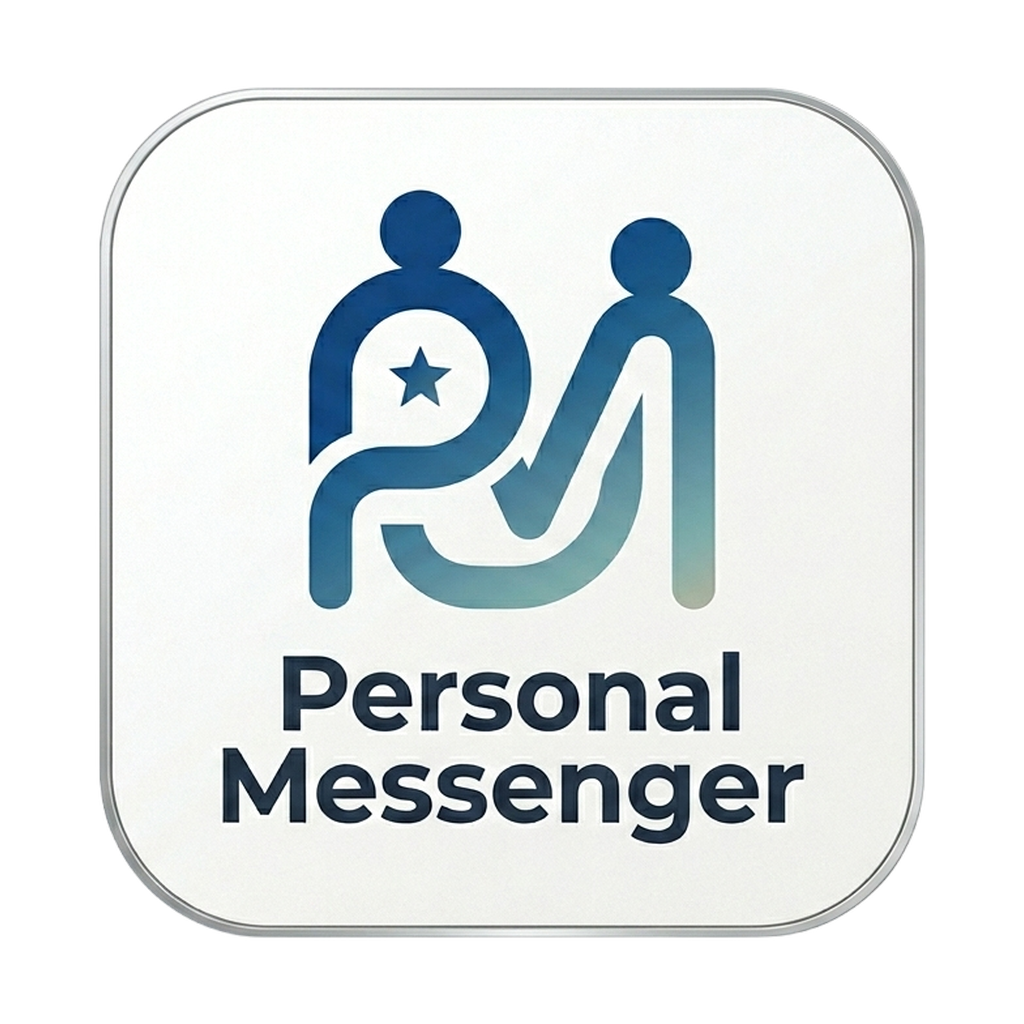
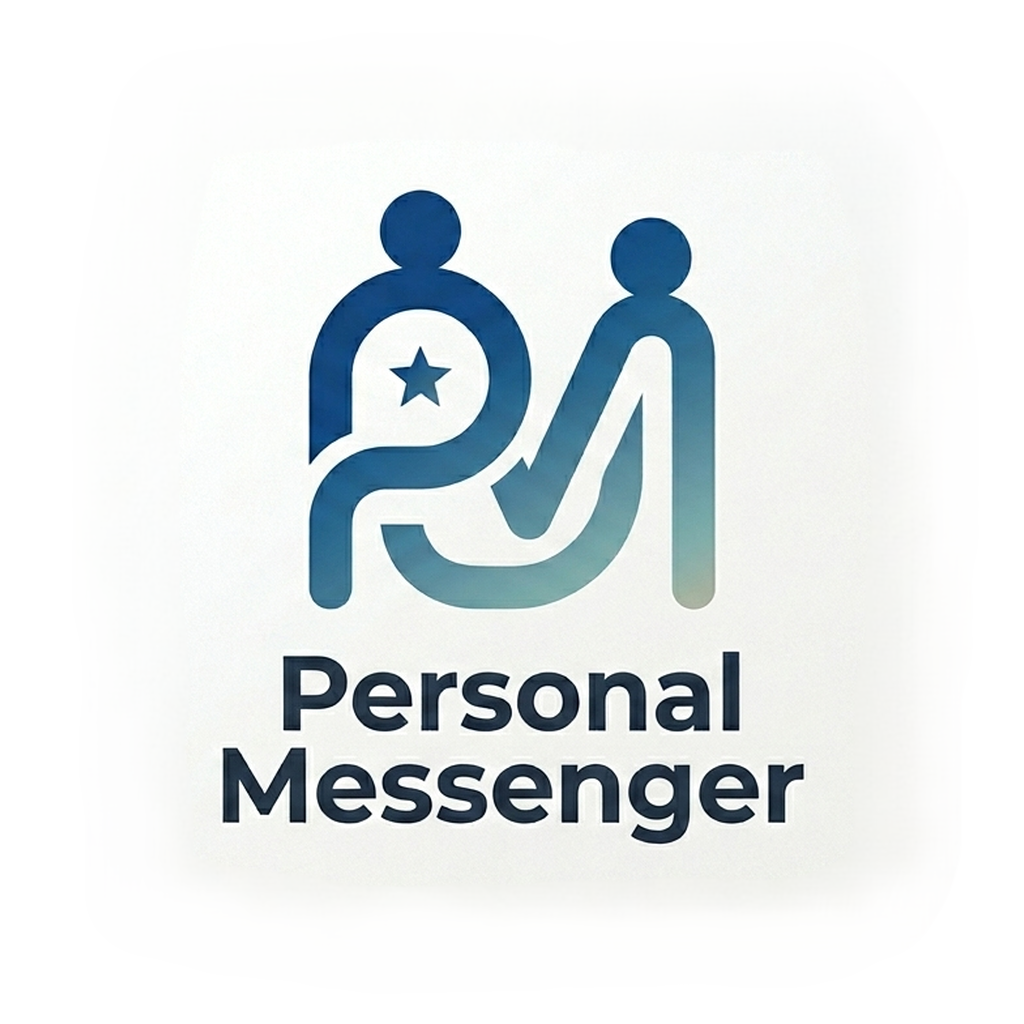
third commit

Changed region(s): [[0.0938, 0.0625, 0.9062, 0.9375]]

diff --git a/scripts/find-unused-deps.js b/scripts/find-unused-deps.js
@@ -1,0 +1,44 @@
+const fs = require('fs');
+const path = require('path');
+
+const root = path.resolve(__dirname, '..');
+const pkg = require(path.join(root, 'package.json'));
+const deps = Object.keys(pkg.dependencies || {});
+
+function readFiles(dir, exts = ['.js', '.jsx', '.ts', '.tsx']) {
+    let results = [];
+    const entries = fs.readdirSync(dir, { withFileTypes: true });
+    for (const e of entries) {
+        const full = path.join(dir, e.name);
+        if (e.isDirectory()) {
+            if (e.name === 'node_modules' || e.name === '.git') continue;
+            results = results.concat(readFiles(full, exts));
+        } else {
+            if (exts.includes(path.extname(e.name))) results.push(full);
+        }
+    }
+    return results;
+}
+
+const files = readFiles(root);
+
+function used(pkgName) {
+    const re = new RegExp(pkgName.replace(/[-/\\^$*+?.()|[\]{}]/g, '\\$&'));
+    for (const f of files) {
+        const content = fs.readFileSync(f, 'utf8');
+        if (re.test(content)) return true;
+    }
+    return false;
+}
+
+const unused = [];
+for (const d of deps) {
+    if (!used(d)) unused.push(d);
+}
+
+console.log('Declared dependencies:', deps.length);
+if (unused.length === 0) console.log('No unused top-level dependencies detected.');
+else {
+    console.log('Unused dependencies (caution: dynamic imports/strings may hide usage):');
+    unused.forEach(u => console.log('-', u));
+}